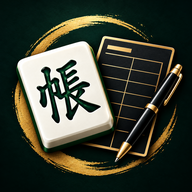
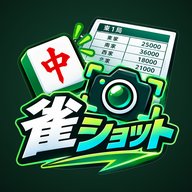
アプリアイコンを雀ショットのデザインに変更
Claude-Session: https://claude.ai/code/session_01Tiu41ygGN2nDzNE12cUwBZ

diff --git a/index.html b/index.html
@@ -16,8 +16,8 @@
 <link rel="preconnect" href="https://fonts.googleapis.com">
 <link rel="preconnect" href="https://fonts.gstatic.com" crossorigin>
 <link rel="stylesheet" href="https://fonts.googleapis.com/css2?family=Shippori+Mincho+B1:wght@600;800&family=Zen+Kaku+Gothic+New:wght@400;500;700&family=IBM+Plex+Mono:wght@500;600&display=swap">
-<script src="move.js?v=42"></script>
-<link rel="stylesheet" href="style.css?v=42">
+<script src="move.js?v=43"></script>
+<link rel="stylesheet" href="style.css?v=43">
 </head>
 <body>
 <div class="wrap">
@@ -279,10 +279,10 @@
     </div>
   </div>
 </dialog>
-<script src="config.js?v=42"></script>
-<script src="cloud.js?v=42"></script>
-<script src="ocr.js?v=42"></script>
-<script src="app.js?v=42"></script>
+<script src="config.js?v=43"></script>
+<script src="cloud.js?v=43"></script>
+<script src="ocr.js?v=43"></script>
+<script src="app.js?v=43"></script>
 <script>if('serviceWorker' in navigator){addEventListener('load',()=>navigator.serviceWorker.register('sw.js').catch(()=>{}));}</script>
 </body>
 </html>

diff --git a/sw.js b/sw.js
@@ -1,5 +1,5 @@
 // ネット優先・オフライン時はキャッシュ。更新は次にアプリを開いたときに反映されます。
-const CACHE='jansou-v42';
+const CACHE='jansou-v43';
 const ASSETS=['./','./index.html','./style.css','./app.js','./ocr.js','./cloud.js','./config.js','./lib/supabase.js','./lib/qrcode.js','./move.js','./logo.webp','./manifest.webmanifest','./icon-192.png','./icon-512.png','./apple-touch-icon.png','./favicon-32.png'];
 self.addEventListener('install',e=>{e.waitUntil(caches.open(CACHE).then(c=>c.addAll(ASSETS)));self.skipWaiting();});
 self.addEventListener('activate',e=>{e.waitUntil(caches.keys().then(ks=>Promise.all(ks.filter(k=>k!==CACHE).map(k=>caches.delete(k)))));self.clients.claim();});
